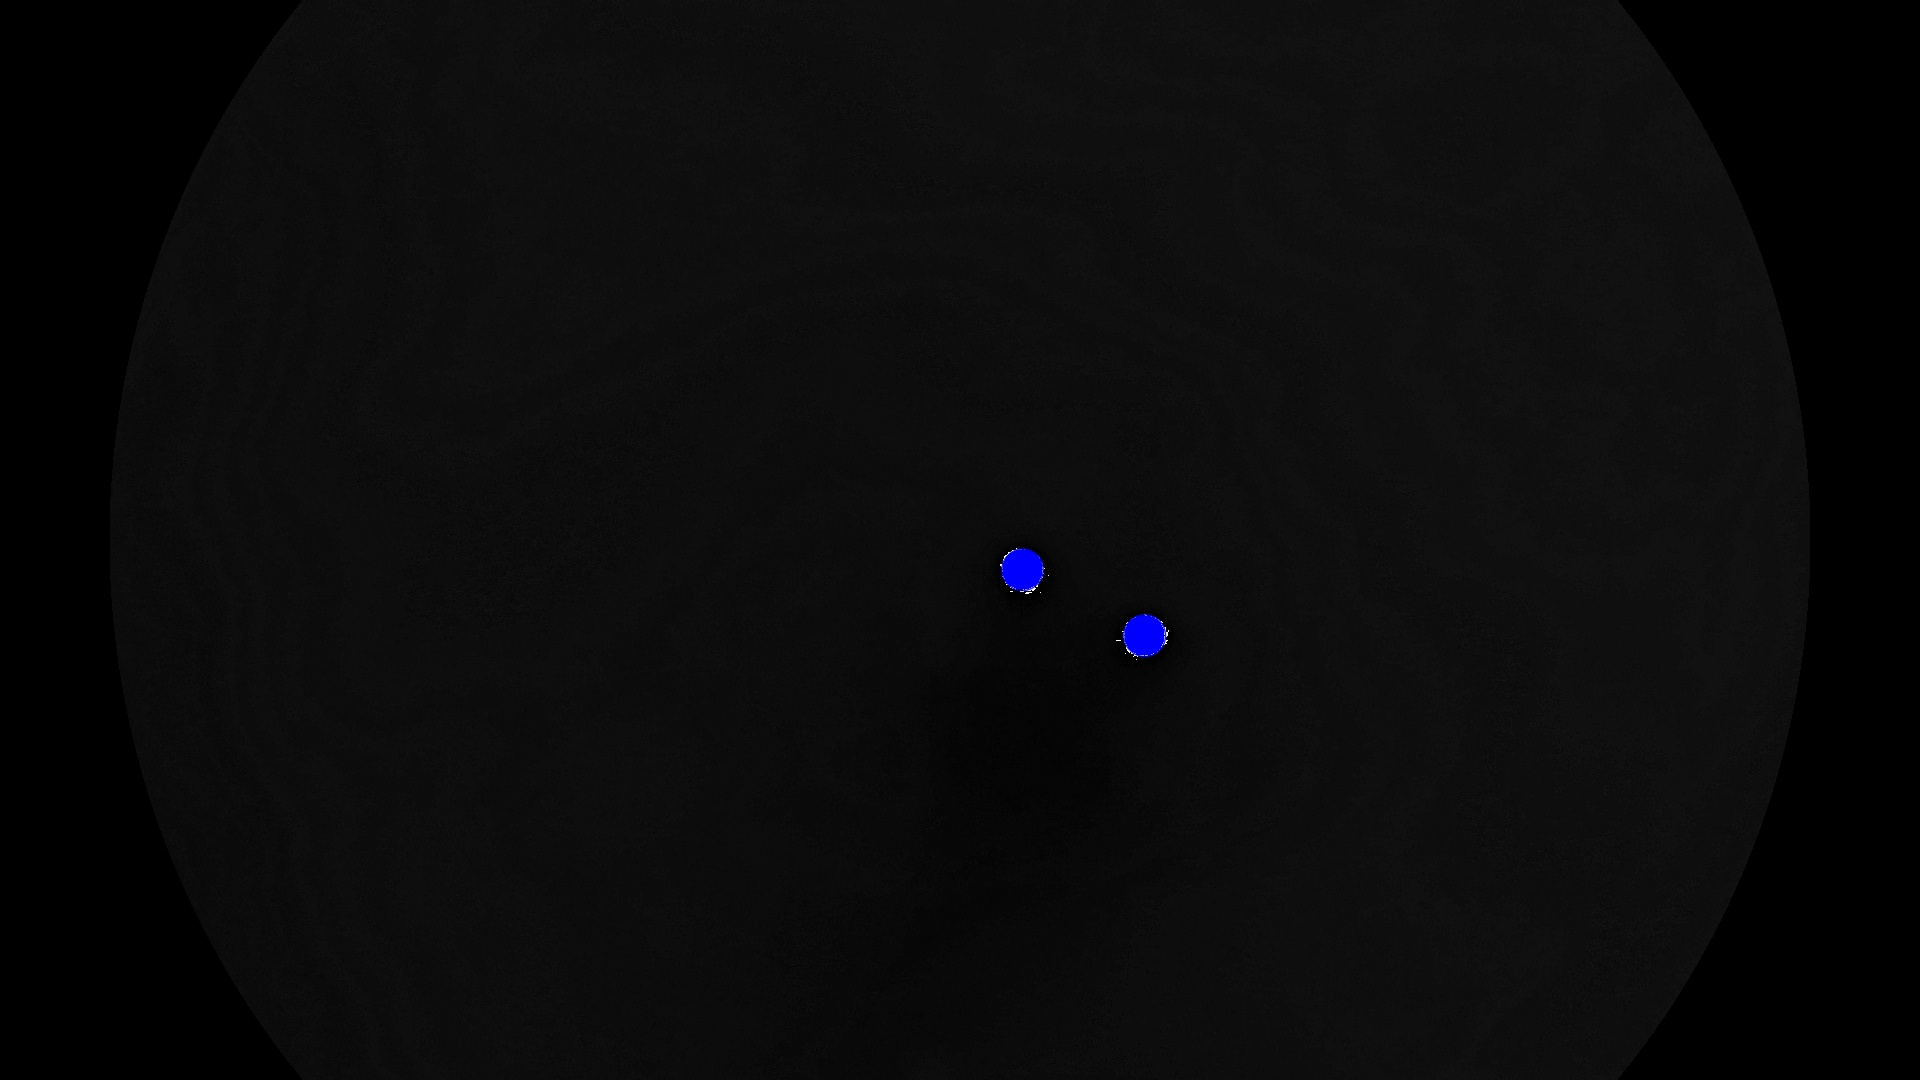
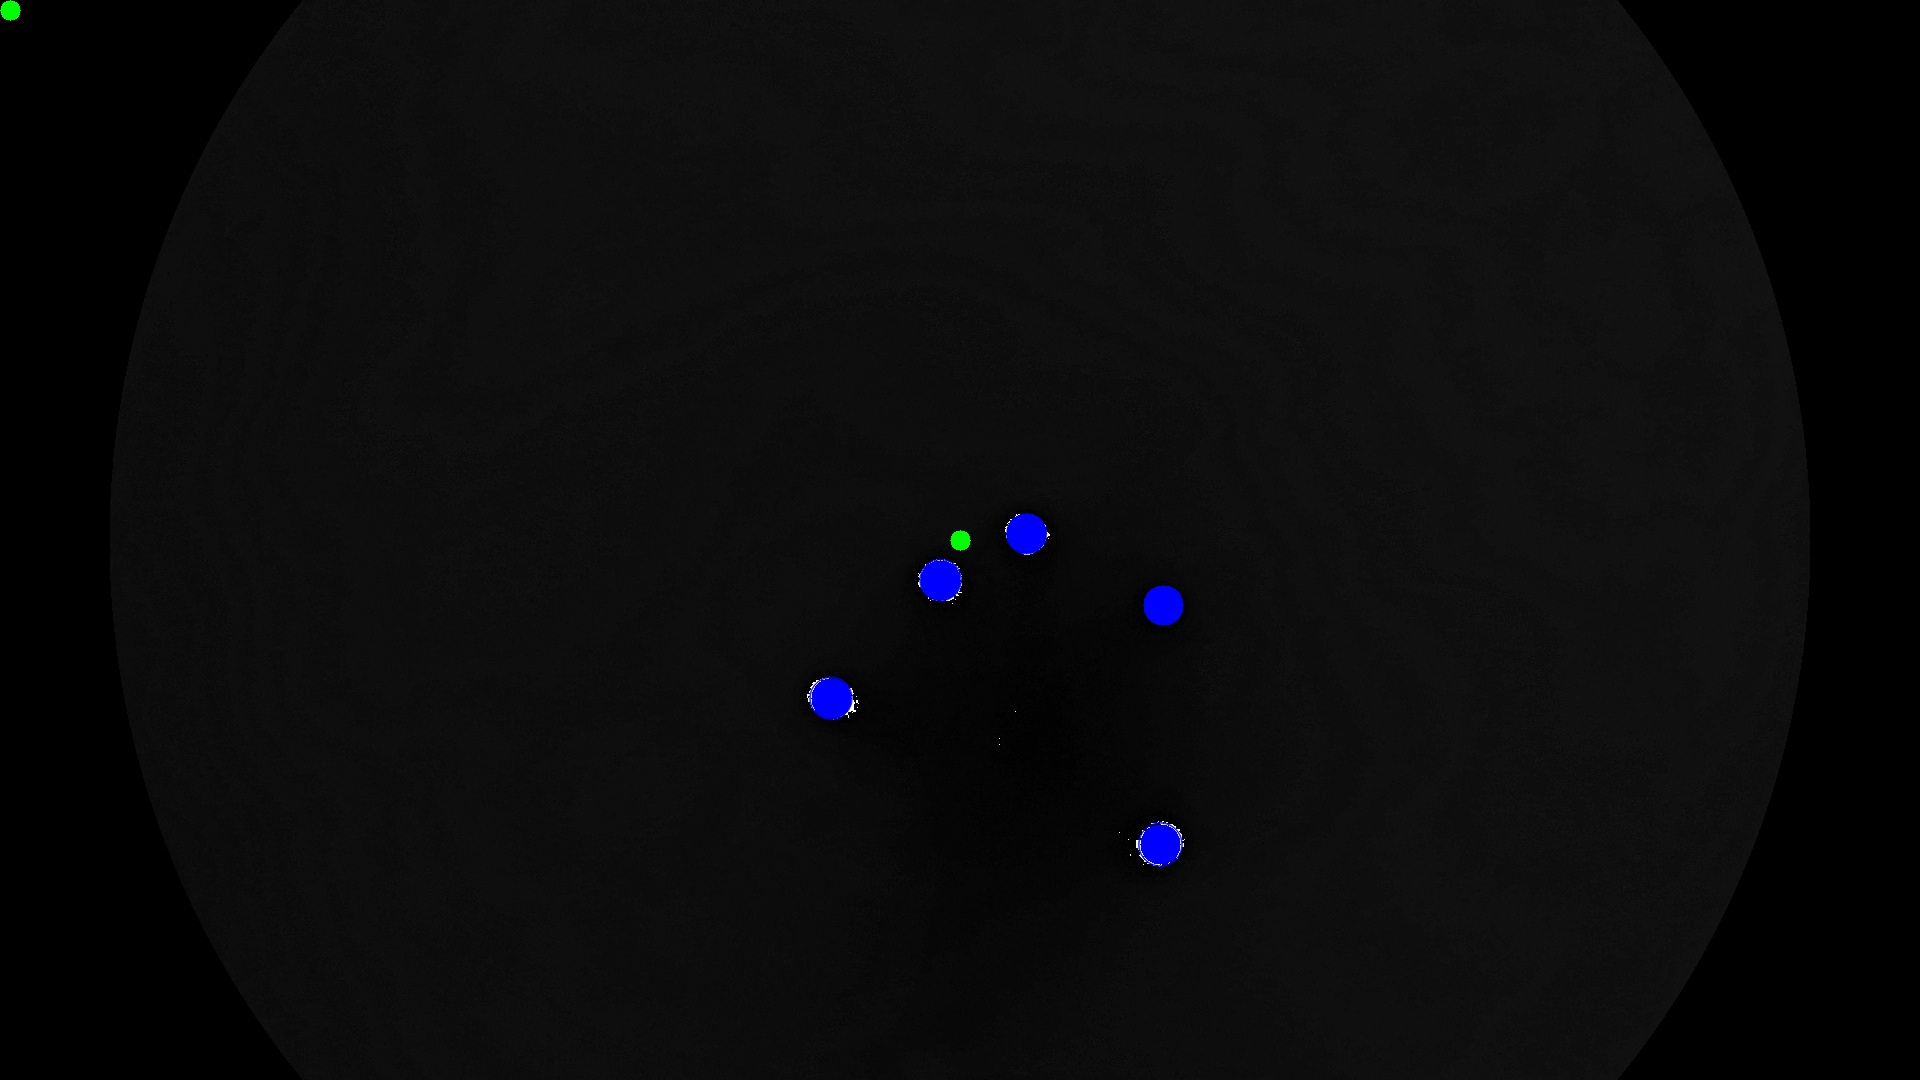
Adding angle and distance from center
Maps the touches to vertical slices and outputs the distance from center. Can be used for SOC channels?

diff --git a/poc/image_blob_detect.py b/poc/image_blob_detect.py
@@ -2,10 +2,11 @@
 
 import cv2
 import numpy as np
+import math
 
 # Read images
 calibrate_frame = cv2.imread("Images/test_images/calibrate.jpg", cv2.IMREAD_GRAYSCALE)
-current_frame = cv2.imread("Images/test_images/two_fingers.jpg", cv2.IMREAD_GRAYSCALE) *0.85
+current_frame = cv2.imread("Images/test_images/five_fingers.jpg", cv2.IMREAD_GRAYSCALE) *0.85
 current_frame = current_frame.astype(np.uint8)
 mask = cv2.imread('Images/round_mask_1920_1080.png', 0)
 
@@ -15,56 +16,119 @@ frame = current_frame - calibrate_frame
 frame = cv2.bitwise_not(frame)
 frame = cv2.bitwise_and(frame, frame, mask=mask)
 
-# Set up the detector with default parameters.
-params = cv2.SimpleBlobDetector_Params()
 
-# Change thresholds
-params.minThreshold = 0
-params.maxThreshold = 100
 
-# Filter by Area.
-params.filterByArea = True
-params.minArea = 150
+def Initialise_blob_detect(): # Set up the detector with default parameters.
+    # Set up the detector with default parameters.
+    params = cv2.SimpleBlobDetector_Params()
 
-# Filter by Circularity
-params.filterByCircularity = False
-params.minCircularity = 0.8
+    # Change thresholds
+    params.minThreshold = 0
+    params.maxThreshold = 100
 
-# Filter by Convexity
-params.filterByConvexity = False
-params.minConvexity = 0.87
+    # Filter by Area.
+    params.filterByArea = True
+    params.minArea = 150
 
-# Filter by Inertia
-params.filterByInertia = False
-params.minInertiaRatio = 0.01
+    # Filter by Circularity
+    params.filterByCircularity = False
+    params.minCircularity = 0.8
 
-# Filter by Inertia
-params.filterByColor = True
-params.blobColor = 255
+    # Filter by Convexity
+    params.filterByConvexity = False
+    params.minConvexity = 0.87
 
-detector = cv2.SimpleBlobDetector_create(params)
+    # Filter by Inertia
+    params.filterByInertia = False
+    params.minInertiaRatio = 0.01
 
-# Detect blobs.
-keypoints = detector.detect(frame)
+    # Filter by Inertia
+    params.filterByColor = True
+    params.blobColor = 255
 
-# Draw detected blobs as red circles.
-# cv2.DRAW_MATCHES_FLAGS_DRAW_RICH_KEYPOINTS ensures the size of the circle corresponds to the size of blob
-im_with_keypoints = cv2.drawKeypoints(frame, keypoints, np.array([]), (255,0,0), cv2.DRAW_MATCHES_FLAGS_DRAW_RICH_KEYPOINTS)
+    detector = cv2.SimpleBlobDetector_create(params)
+    return detector
+
+detector = Initialise_blob_detect()
+
+
+def blob_detect():
+    keypoints = detector.detect(frame) # Detect blobs.
+
+    # Draw detected blobs as red circles.
+    # cv2.DRAW_MATCHES_FLAGS_DRAW_RICH_KEYPOINTS ensures the size of the circle corresponds to the size of blob
+    im_with_keypoints = cv2.drawKeypoints(frame, keypoints, np.array([]), (255,0,0), cv2.DRAW_MATCHES_FLAGS_DRAW_RICH_KEYPOINTS)
+    return keypoints, im_with_keypoints
+
+keypoints, im_with_keypoints = blob_detect()
+
+coords=[] #make an empty array to fill with coordinates
+
+def blobs_to_coords(): # put the angle in degree and distance in pixels of each blob from the center of the image
+    number_of_blobs = len(keypoints)
+    print("number of blobs: ", number_of_blobs)
+    ycenter = frame.shape[0]/2 #find the center of the frame. frame.shape returns rows, columns, and channels (if the image is color)
+    xcenter = frame.shape[1]/2
+    cv2.circle(im_with_keypoints, (int(xcenter), int(ycenter)), 10, (0, 255, 0), -1) #place a cricle at the center
+    cv2.circle(im_with_keypoints, (10, 10), 10, (0, 255, 0), -1) #place a circle at the xy origin corner
+
+    i = 0
+    while i < number_of_blobs:
+        x = int(round(keypoints[i].pt[0])) #i is the index of the blob you want to get the position
+        y = int(round(keypoints[i].pt[1]))
+        #print("x, y:", x, y)
+        cv2.circle(im_with_keypoints, (x, y), 20, (255, 0, 0), -1) #Adds a blue circle over the detected blob
+
+        #plan is to get the distance from center and angle
+        #use math.atan2 and math.dist
+        #math.atan2 returns -pi to +pi
+        #0 degrees is along the x axis and increases in a clockwise direction up to 180 and decreases to -180 in an anti-clockwise direction
+        y = y - ycenter
+        x = x - xcenter
+        #print("x, y:", x, y)
+        radians = math.atan2(y, x)
+        distance = round(math.hypot(y, x),0)
+        degrees = round(math.degrees(radians),0)+180
+        coords.append([degrees,distance])
+        print("degrees", degrees, "distance:", distance)
+        i = i + 1 #increment the for loop
+
+blobs_to_coords() 
+
+#we want to have an arbitrary number of radial slices. if it is in a certain section it should be sent to a different OSC server
+segment_count = 10 #how many different control segments
+segment_size = 360/segment_count
+
 
 number_of_blobs = len(keypoints)
-print(number_of_blobs)
-if number_of_blobs==0:
-    print("no blobs found")
+
 i = 0
-while i < number_of_blobs:
-    x = int(round(keypoints[i].pt[0])) #i is the index of the blob you want to get the position
-    y = int(round(keypoints[i].pt[1]))
-    print(x, y)
-    cv2.circle(im_with_keypoints, (x, y), 20, (255, 0, 0), -1)
-    i = i + 1
+x = 0
+a = 0
+for i in range(0, number_of_blobs): # Iterate through all the blobs we found
+    degrees = coords[x][0]
+    for a in range(0,segment_count):
+        if degrees>a*segment_size and degrees<(a+1)*segment_size: # Check which segment the blob is in.
+            print(a)
+            coords[x][0] = a # Swap the angle for which segment the blob is in
+
+    x=x+1
+
+#I want to get the average distance of blobs within each segment and use this to output to OSC
+
+#this code doesn't work at all
+#i = 0
+#while i<segment_count:
+#    if coords[i][0] in segment_count:
+#        print("segment ",coords[i][0],": ",coords[i][1])
+#    i=i+1
+
+print(coords)
 
 cv2.imwrite("Images/test_images/output.jpg", im_with_keypoints)
 
 # Show keypoints
 # cv2.imshow("Keypoints", im_with_keypoints)
 # cv2.waitKey(0)
+
+

diff --git a/poc/test.py b/poc/test.py
@@ -1,0 +1,34 @@
+import math
+import argparse
+import random
+import time
+from pythonosc import udp_client
+
+coords=[[342, 548]]
+#print(coords)
+x=coords[0][0]
+#print(x)
+y=coords[0][1]
+#print(y)
+
+coords2=[800, 600]
+
+coords.append(coords2)
+
+
+ycenter = 1920/2
+xcenter = 1080/2
+
+y = y - ycenter
+x = x - xcenter
+#print("x, y:", x, y)
+radians = math.atan2(y, x)
+array = [math.hypot(y, x), math.degrees(radians)]
+#print("radians", round(radians,2), "degrees", round(array[1],0), "distance:", round(array[0],0))
+
+#we want to have an arbitrary number of radial slices. if it is in a certain section it should be sent to a different OSC server
+control_count = 4 #how many different control segments
+segment_size = 360/control_count
+
+
+print(array)
